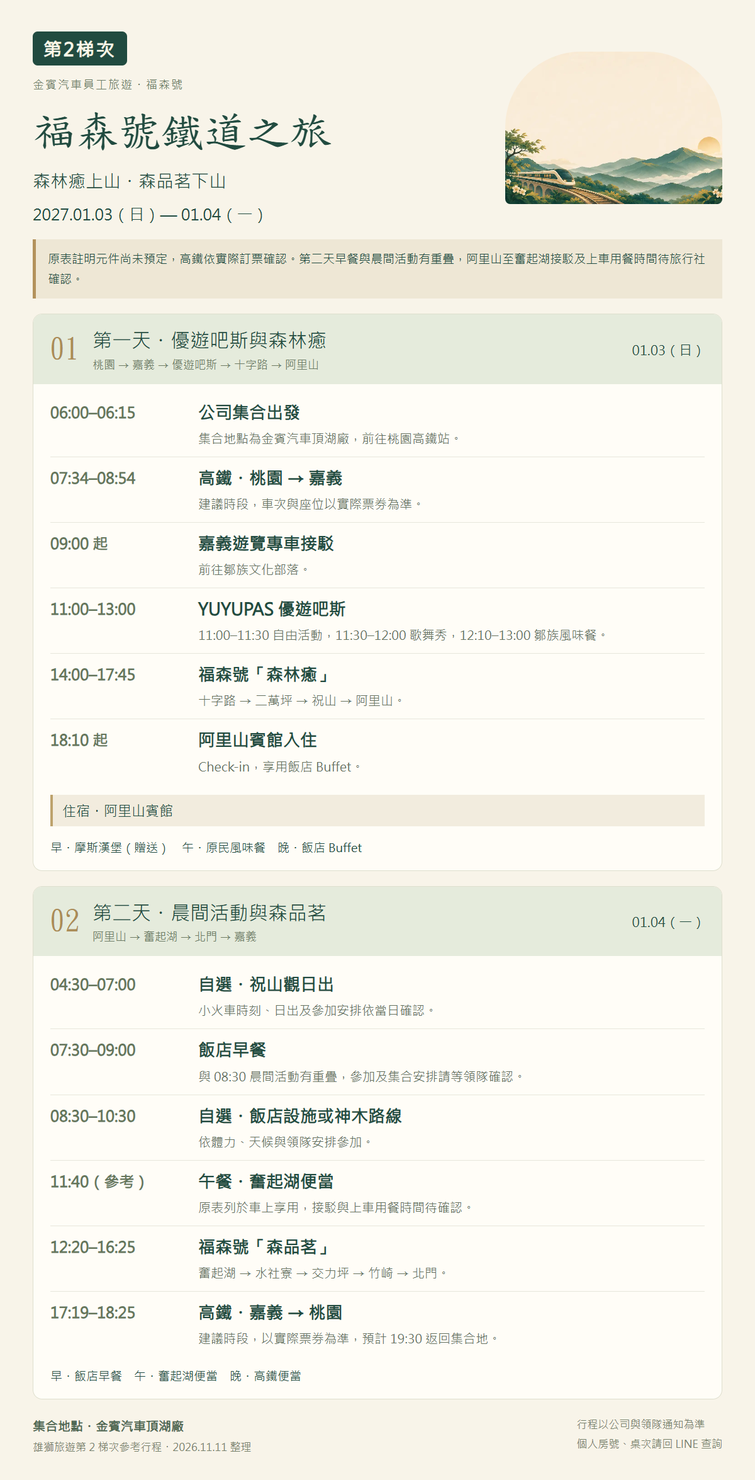
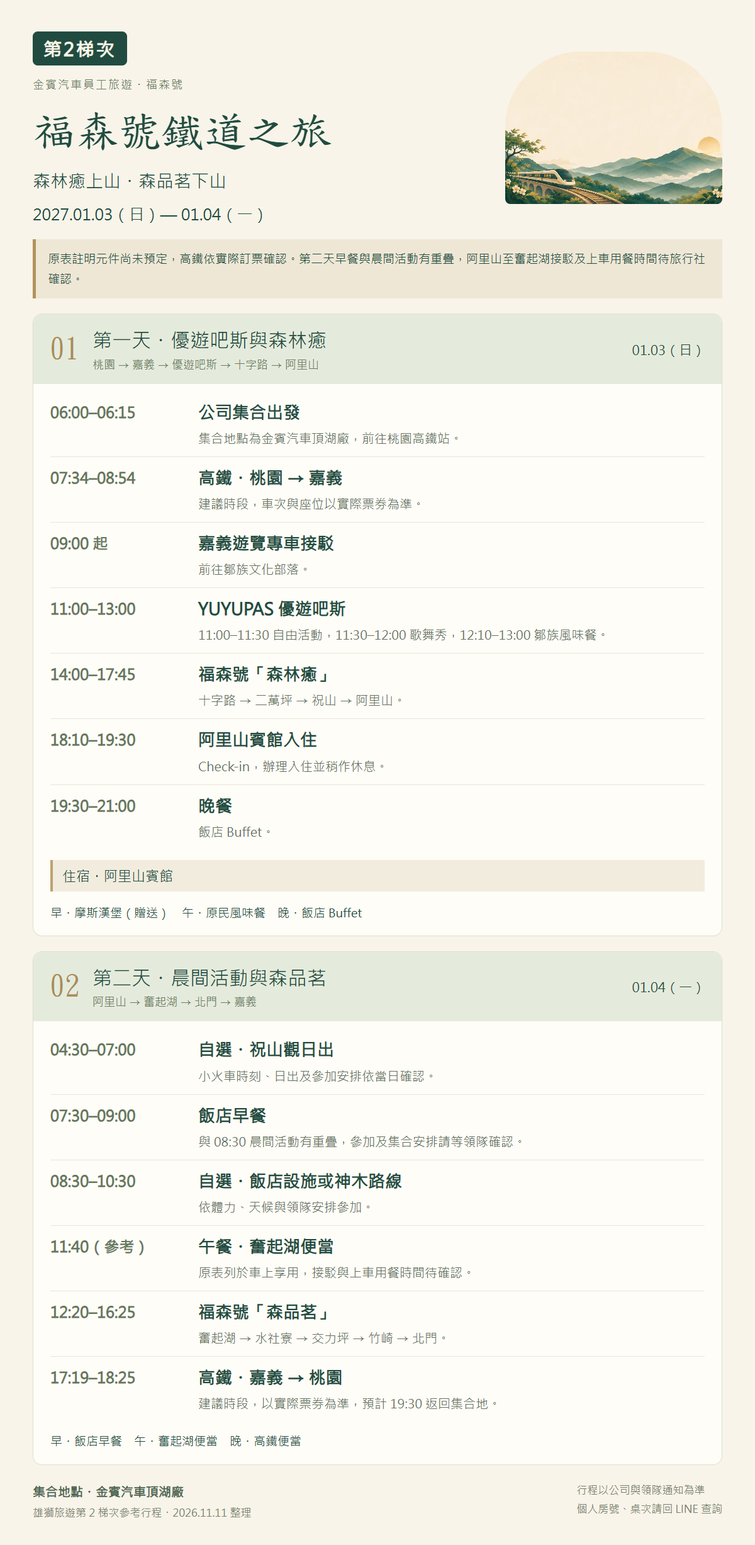
Update Alishan hotel check-in and dinner times for both batches

Changed region(s): [[0.0308, 0.0, 0.9558, 0.994], [0.7708, 0.963, 0.9558, 0.994], [0.3083, 0.963, 0.3392, 0.994]]

diff --git a/docs/r01/ac/itinerary.html b/docs/r01/ac/itinerary.html
@@ -1,4 +1,4 @@
 <!doctype html><html lang="zh-Hant"><head><meta charset="utf-8"><meta name="viewport" content="width=1200"><title>福森號・第1梯次・行程圖</title><style>
     @font-face{font-family:PosterSans;src:local('Microsoft JhengHei')}@font-face{font-family:PosterSerif;src:local('DFKai-SB')}
     *{box-sizing:border-box}body{margin:0;width:1200px;background:#f8f4e9;color:#214b40;font-family:PosterSans,'Microsoft JhengHei',sans-serif}.poster{padding:50px 52px 36px}.hero{display:grid;grid-template-columns:1fr 345px;gap:25px;align-items:center;margin-bottom:24px}.eyebrow{font-size:18px;letter-spacing:2px;color:#6d7b65}.hero h1{font:68px/1.35 PosterSerif,serif;margin:12px 0}.sub{font-size:28px;margin:0 0 18px}.date{font-size:25px;margin:0}.hero img{width:345px;height:242px;object-fit:cover;object-position:left bottom;border-radius:120px 120px 8px 8px}.code{display:inline-block;background:#214b40;color:#fff9e9;border-radius:8px;font:700 29px PosterSans,sans-serif;padding:8px 17px;letter-spacing:3px}.notice{font-size:19px;line-height:1.7;background:#eee7d5;border-left:5px solid #b3925c;padding:15px 19px;margin-bottom:24px}.day{background:#fffdf7;border:1px solid #dedfce;border-radius:15px;overflow:hidden;margin-bottom:24px}.day-head{background:#e5ebdc;display:flex;align-items:center;gap:20px;padding:19px 26px}.day-index{font:48px/1 PosterSerif,serif;color:#ab8c56}.day-head h2{font:31px/1.4 PosterSans,sans-serif;margin:0 0 5px}.day-head p{font-size:18px;margin:0;color:#6d7b65}.day-label{margin-left:auto;white-space:nowrap;font-size:21px}.events{padding:12px 27px}.event{display:grid;grid-template-columns:215px 1fr;gap:20px;border-bottom:1px solid #e7e7dc;padding:13px 0}.event:last-child{border:0}.time{font-size:24px;font-weight:700;color:#65765b;padding-top:3px}.event h3{font-size:27px;line-height:1.45;margin:0 0 5px}.event p{font-size:20px;line-height:1.65;color:#65715f;margin:0}.meals{font-size:19px;line-height:1.7;margin:0;padding:3px 27px 20px}.stay{font-size:22px;background:#f2ecde;border-left:4px solid #bda26c;margin:4px 27px 15px;padding:10px 15px}.foot{font-size:17px;line-height:1.8;color:#77816b;display:flex;justify-content:space-between;gap:25px}.foot strong{font-size:20px;color:#4b654f}.pending .event{padding:26px 0}.pending .day{margin-bottom:28px}.pending .notice{font-size:22px}
-    </style></head><body class=""><main id="poster" class="poster"><header class="hero"><div><span class="code">第1梯次</span><p class="eyebrow">金賓汽車員工旅遊・福森號</p><h1>福森號鐵道之旅</h1><p class="sub">森好食上山・好森音下山</p><p class="date">2027.01.03（日）— 01.04（一）</p></div><img src="../../assets/r01-cover.webp" alt="阿里山森林旅行插畫"></header><div class="notice">原表註明元件尚未預定，高鐵依實際訂票確認。第二天早餐截止時間與 08:35 列車出發時間重疊，早餐及集合時間請等領隊確認。</div><section class="day"><header class="day-head"><span class="day-index">01</span><div><h2>第一天・森好食與森林漫步</h2><p>桃園 → 嘉義北門 → 十字路 → 阿里山</p></div><span class="day-label">01.03（日）</span></header><div class="events"><div class="event"><div class="time">05:15–05:30</div><div><h3>公司集合出發</h3><p>集合地點為金賓汽車頂湖廠，前往桃園高鐵站。</p></div></div><div class="event"><div class="time">06:49–08:09</div><div><h3>高鐵・桃園 → 嘉義</h3><p>建議時段，車次與座位以實際票券為準。</p></div></div><div class="event"><div class="time">08:15 起</div><div><h3>嘉義接駁至北門車站</h3><p>搭乘旅行社安排的遊覽專車。</p></div></div><div class="event"><div class="time">09:10–13:20</div><div><h3>福森號「森好食」</h3><p>北門 → 樟腦寮 → 第三觀景台 → 奮起湖 → 多林緩行 → 十字路。</p></div></div><div class="event"><div class="time">13:40–14:15</div><div><h3>前往阿里山森林遊樂區</h3><p>十字路接駁上山。</p></div></div><div class="event"><div class="time">14:30–16:00</div><div><h3>森林漫步・姊妹潭路線</h3><p>依領隊安排走訪園區林道與景點。</p></div></div><div class="event"><div class="time">16:30 起</div><div><h3>阿里山賓館入住</h3><p>Check-in，享用飯店 Buffet。</p></div></div></div><p class="stay">住宿・阿里山賓館</p><p class="meals">早・摩斯漢堡（贈送）　午・福森號餐盒　晚・飯店 Buffet</p></section><section class="day"><header class="day-head"><span class="day-index">02</span><div><h2>第二天・好森音與優遊吧斯</h2><p>阿里山 → 奮起湖 → 優遊吧斯 → 嘉義</p></div><span class="day-label">01.04（一）</span></header><div class="events"><div class="event"><div class="time">04:30–07:00</div><div><h3>自選・祝山觀日出</h3><p>小火車時刻、日出及參加安排依當日確認。</p></div></div><div class="event"><div class="time">早餐時間待確認</div><div><h3>飯店早餐與退房集合</h3><p>原表早餐列至 09:00，但列車 08:35 出發，請等領隊確認早餐及集合時間。</p></div></div><div class="event"><div class="time">08:35–11:30</div><div><h3>福森號「好森音」</h3><p>阿里山 → 二萬坪 → 多林緩行 → 奮起湖。</p></div></div><div class="event"><div class="time">12:15–15:00</div><div><h3>YUYUPAS 優遊吧斯</h3><p>12:30–13:30 鄒族風味餐，14:00–14:40 歌舞秀，14:40–15:00 自由活動。</p></div></div><div class="event"><div class="time">17:19–18:25</div><div><h3>高鐵・嘉義 → 桃園</h3><p>建議時段，以實際票券為準，預計 19:30 返回集合地。</p></div></div></div><p class="meals">早・飯店早餐　午・原民風味餐　晚・高鐵便當</p></section><footer class="foot"><div><strong>集合地點・金賓汽車頂湖廠</strong><br>雄獅旅遊第 1 梯次參考行程・2026.11.11 整理</div><div>行程以公司與領隊通知為準<br>個人房號、桌次請回 LINE 查詢</div></footer></main></body></html>
+    </style></head><body class=""><main id="poster" class="poster"><header class="hero"><div><span class="code">第1梯次</span><p class="eyebrow">金賓汽車員工旅遊・福森號</p><h1>福森號鐵道之旅</h1><p class="sub">森好食上山・好森音下山</p><p class="date">2027.01.03（日）— 01.04（一）</p></div><img src="../../assets/r01-cover.webp" alt="阿里山森林旅行插畫"></header><div class="notice">原表註明元件尚未預定，高鐵依實際訂票確認。第二天早餐截止時間與 08:35 列車出發時間重疊，早餐及集合時間請等領隊確認。</div><section class="day"><header class="day-head"><span class="day-index">01</span><div><h2>第一天・森好食與森林漫步</h2><p>桃園 → 嘉義北門 → 十字路 → 阿里山</p></div><span class="day-label">01.03（日）</span></header><div class="events"><div class="event"><div class="time">05:15–05:30</div><div><h3>公司集合出發</h3><p>集合地點為金賓汽車頂湖廠，前往桃園高鐵站。</p></div></div><div class="event"><div class="time">06:49–08:09</div><div><h3>高鐵・桃園 → 嘉義</h3><p>建議時段，車次與座位以實際票券為準。</p></div></div><div class="event"><div class="time">08:15 起</div><div><h3>嘉義接駁至北門車站</h3><p>搭乘旅行社安排的遊覽專車。</p></div></div><div class="event"><div class="time">09:10–13:20</div><div><h3>福森號「森好食」</h3><p>北門 → 樟腦寮 → 第三觀景台 → 奮起湖 → 多林緩行 → 十字路。</p></div></div><div class="event"><div class="time">13:40–14:15</div><div><h3>前往阿里山森林遊樂區</h3><p>十字路接駁上山。</p></div></div><div class="event"><div class="time">14:30–16:00</div><div><h3>森林漫步・姊妹潭路線</h3><p>依領隊安排走訪園區林道與景點。</p></div></div><div class="event"><div class="time">16:30–17:30</div><div><h3>阿里山賓館入住</h3><p>Check-in，辦理入住並稍作休息。</p></div></div><div class="event"><div class="time">17:30–19:00</div><div><h3>晚餐</h3><p>飯店 Buffet。</p></div></div></div><p class="stay">住宿・阿里山賓館</p><p class="meals">早・摩斯漢堡（贈送）　午・福森號餐盒　晚・飯店 Buffet</p></section><section class="day"><header class="day-head"><span class="day-index">02</span><div><h2>第二天・好森音與優遊吧斯</h2><p>阿里山 → 奮起湖 → 優遊吧斯 → 嘉義</p></div><span class="day-label">01.04（一）</span></header><div class="events"><div class="event"><div class="time">04:30–07:00</div><div><h3>自選・祝山觀日出</h3><p>小火車時刻、日出及參加安排依當日確認。</p></div></div><div class="event"><div class="time">早餐時間待確認</div><div><h3>飯店早餐與退房集合</h3><p>原表早餐列至 09:00，但列車 08:35 出發，請等領隊確認早餐及集合時間。</p></div></div><div class="event"><div class="time">08:35–11:30</div><div><h3>福森號「好森音」</h3><p>阿里山 → 二萬坪 → 多林緩行 → 奮起湖。</p></div></div><div class="event"><div class="time">12:15–15:00</div><div><h3>YUYUPAS 優遊吧斯</h3><p>12:30–13:30 鄒族風味餐，14:00–14:40 歌舞秀，14:40–15:00 自由活動。</p></div></div><div class="event"><div class="time">17:19–18:25</div><div><h3>高鐵・嘉義 → 桃園</h3><p>建議時段，以實際票券為準，預計 19:30 返回集合地。</p></div></div></div><p class="meals">早・飯店早餐　午・原民風味餐　晚・高鐵便當</p></section><footer class="foot"><div><strong>集合地點・金賓汽車頂湖廠</strong><br>雄獅旅遊第 1 梯次參考行程・2026.11.11 整理</div><div>行程以公司與領隊通知為準<br>個人房號、桌次請回 LINE 查詢</div></footer></main></body></html>

diff --git a/docs/r01/bd/itinerary.html b/docs/r01/bd/itinerary.html
@@ -1,4 +1,4 @@
 <!doctype html><html lang="zh-Hant"><head><meta charset="utf-8"><meta name="viewport" content="width=1200"><title>福森號・第2梯次・行程圖</title><style>
     @font-face{font-family:PosterSans;src:local('Microsoft JhengHei')}@font-face{font-family:PosterSerif;src:local('DFKai-SB')}
     *{box-sizing:border-box}body{margin:0;width:1200px;background:#f8f4e9;color:#214b40;font-family:PosterSans,'Microsoft JhengHei',sans-serif}.poster{padding:50px 52px 36px}.hero{display:grid;grid-template-columns:1fr 345px;gap:25px;align-items:center;margin-bottom:24px}.eyebrow{font-size:18px;letter-spacing:2px;color:#6d7b65}.hero h1{font:68px/1.35 PosterSerif,serif;margin:12px 0}.sub{font-size:28px;margin:0 0 18px}.date{font-size:25px;margin:0}.hero img{width:345px;height:242px;object-fit:cover;object-position:left bottom;border-radius:120px 120px 8px 8px}.code{display:inline-block;background:#214b40;color:#fff9e9;border-radius:8px;font:700 29px PosterSans,sans-serif;padding:8px 17px;letter-spacing:3px}.notice{font-size:19px;line-height:1.7;background:#eee7d5;border-left:5px solid #b3925c;padding:15px 19px;margin-bottom:24px}.day{background:#fffdf7;border:1px solid #dedfce;border-radius:15px;overflow:hidden;margin-bottom:24px}.day-head{background:#e5ebdc;display:flex;align-items:center;gap:20px;padding:19px 26px}.day-index{font:48px/1 PosterSerif,serif;color:#ab8c56}.day-head h2{font:31px/1.4 PosterSans,sans-serif;margin:0 0 5px}.day-head p{font-size:18px;margin:0;color:#6d7b65}.day-label{margin-left:auto;white-space:nowrap;font-size:21px}.events{padding:12px 27px}.event{display:grid;grid-template-columns:215px 1fr;gap:20px;border-bottom:1px solid #e7e7dc;padding:13px 0}.event:last-child{border:0}.time{font-size:24px;font-weight:700;color:#65765b;padding-top:3px}.event h3{font-size:27px;line-height:1.45;margin:0 0 5px}.event p{font-size:20px;line-height:1.65;color:#65715f;margin:0}.meals{font-size:19px;line-height:1.7;margin:0;padding:3px 27px 20px}.stay{font-size:22px;background:#f2ecde;border-left:4px solid #bda26c;margin:4px 27px 15px;padding:10px 15px}.foot{font-size:17px;line-height:1.8;color:#77816b;display:flex;justify-content:space-between;gap:25px}.foot strong{font-size:20px;color:#4b654f}.pending .event{padding:26px 0}.pending .day{margin-bottom:28px}.pending .notice{font-size:22px}
-    </style></head><body class=""><main id="poster" class="poster"><header class="hero"><div><span class="code">第2梯次</span><p class="eyebrow">金賓汽車員工旅遊・福森號</p><h1>福森號鐵道之旅</h1><p class="sub">森林癒上山・森品茗下山</p><p class="date">2027.01.03（日）— 01.04（一）</p></div><img src="../../assets/r01-cover.webp" alt="阿里山森林旅行插畫"></header><div class="notice">原表註明元件尚未預定，高鐵依實際訂票確認。第二天早餐與晨間活動有重疊，阿里山至奮起湖接駁及上車用餐時間待旅行社確認。</div><section class="day"><header class="day-head"><span class="day-index">01</span><div><h2>第一天・優遊吧斯與森林癒</h2><p>桃園 → 嘉義 → 優遊吧斯 → 十字路 → 阿里山</p></div><span class="day-label">01.03（日）</span></header><div class="events"><div class="event"><div class="time">06:00–06:15</div><div><h3>公司集合出發</h3><p>集合地點為金賓汽車頂湖廠，前往桃園高鐵站。</p></div></div><div class="event"><div class="time">07:34–08:54</div><div><h3>高鐵・桃園 → 嘉義</h3><p>建議時段，車次與座位以實際票券為準。</p></div></div><div class="event"><div class="time">09:00 起</div><div><h3>嘉義遊覽專車接駁</h3><p>前往鄒族文化部落。</p></div></div><div class="event"><div class="time">11:00–13:00</div><div><h3>YUYUPAS 優遊吧斯</h3><p>11:00–11:30 自由活動，11:30–12:00 歌舞秀，12:10–13:00 鄒族風味餐。</p></div></div><div class="event"><div class="time">14:00–17:45</div><div><h3>福森號「森林癒」</h3><p>十字路 → 二萬坪 → 祝山 → 阿里山。</p></div></div><div class="event"><div class="time">18:10 起</div><div><h3>阿里山賓館入住</h3><p>Check-in，享用飯店 Buffet。</p></div></div></div><p class="stay">住宿・阿里山賓館</p><p class="meals">早・摩斯漢堡（贈送）　午・原民風味餐　晚・飯店 Buffet</p></section><section class="day"><header class="day-head"><span class="day-index">02</span><div><h2>第二天・晨間活動與森品茗</h2><p>阿里山 → 奮起湖 → 北門 → 嘉義</p></div><span class="day-label">01.04（一）</span></header><div class="events"><div class="event"><div class="time">04:30–07:00</div><div><h3>自選・祝山觀日出</h3><p>小火車時刻、日出及參加安排依當日確認。</p></div></div><div class="event"><div class="time">07:30–09:00</div><div><h3>飯店早餐</h3><p>與 08:30 晨間活動有重疊，參加及集合安排請等領隊確認。</p></div></div><div class="event"><div class="time">08:30–10:30</div><div><h3>自選・飯店設施或神木路線</h3><p>依體力、天候與領隊安排參加。</p></div></div><div class="event"><div class="time">11:40（參考）</div><div><h3>午餐・奮起湖便當</h3><p>原表列於車上享用，接駁與上車用餐時間待確認。</p></div></div><div class="event"><div class="time">12:20–16:25</div><div><h3>福森號「森品茗」</h3><p>奮起湖 → 水社寮 → 交力坪 → 竹崎 → 北門。</p></div></div><div class="event"><div class="time">17:19–18:25</div><div><h3>高鐵・嘉義 → 桃園</h3><p>建議時段，以實際票券為準，預計 19:30 返回集合地。</p></div></div></div><p class="meals">早・飯店早餐　午・奮起湖便當　晚・高鐵便當</p></section><footer class="foot"><div><strong>集合地點・金賓汽車頂湖廠</strong><br>雄獅旅遊第 2 梯次參考行程・2026.11.11 整理</div><div>行程以公司與領隊通知為準<br>個人房號、桌次請回 LINE 查詢</div></footer></main></body></html>
+    </style></head><body class=""><main id="poster" class="poster"><header class="hero"><div><span class="code">第2梯次</span><p class="eyebrow">金賓汽車員工旅遊・福森號</p><h1>福森號鐵道之旅</h1><p class="sub">森林癒上山・森品茗下山</p><p class="date">2027.01.03（日）— 01.04（一）</p></div><img src="../../assets/r01-cover.webp" alt="阿里山森林旅行插畫"></header><div class="notice">原表註明元件尚未預定，高鐵依實際訂票確認。第二天早餐與晨間活動有重疊，阿里山至奮起湖接駁及上車用餐時間待旅行社確認。</div><section class="day"><header class="day-head"><span class="day-index">01</span><div><h2>第一天・優遊吧斯與森林癒</h2><p>桃園 → 嘉義 → 優遊吧斯 → 十字路 → 阿里山</p></div><span class="day-label">01.03（日）</span></header><div class="events"><div class="event"><div class="time">06:00–06:15</div><div><h3>公司集合出發</h3><p>集合地點為金賓汽車頂湖廠，前往桃園高鐵站。</p></div></div><div class="event"><div class="time">07:34–08:54</div><div><h3>高鐵・桃園 → 嘉義</h3><p>建議時段，車次與座位以實際票券為準。</p></div></div><div class="event"><div class="time">09:00 起</div><div><h3>嘉義遊覽專車接駁</h3><p>前往鄒族文化部落。</p></div></div><div class="event"><div class="time">11:00–13:00</div><div><h3>YUYUPAS 優遊吧斯</h3><p>11:00–11:30 自由活動，11:30–12:00 歌舞秀，12:10–13:00 鄒族風味餐。</p></div></div><div class="event"><div class="time">14:00–17:45</div><div><h3>福森號「森林癒」</h3><p>十字路 → 二萬坪 → 祝山 → 阿里山。</p></div></div><div class="event"><div class="time">18:10–19:30</div><div><h3>阿里山賓館入住</h3><p>Check-in，辦理入住並稍作休息。</p></div></div><div class="event"><div class="time">19:30–21:00</div><div><h3>晚餐</h3><p>飯店 Buffet。</p></div></div></div><p class="stay">住宿・阿里山賓館</p><p class="meals">早・摩斯漢堡（贈送）　午・原民風味餐　晚・飯店 Buffet</p></section><section class="day"><header class="day-head"><span class="day-index">02</span><div><h2>第二天・晨間活動與森品茗</h2><p>阿里山 → 奮起湖 → 北門 → 嘉義</p></div><span class="day-label">01.04（一）</span></header><div class="events"><div class="event"><div class="time">04:30–07:00</div><div><h3>自選・祝山觀日出</h3><p>小火車時刻、日出及參加安排依當日確認。</p></div></div><div class="event"><div class="time">07:30–09:00</div><div><h3>飯店早餐</h3><p>與 08:30 晨間活動有重疊，參加及集合安排請等領隊確認。</p></div></div><div class="event"><div class="time">08:30–10:30</div><div><h3>自選・飯店設施或神木路線</h3><p>依體力、天候與領隊安排參加。</p></div></div><div class="event"><div class="time">11:40（參考）</div><div><h3>午餐・奮起湖便當</h3><p>原表列於車上享用，接駁與上車用餐時間待確認。</p></div></div><div class="event"><div class="time">12:20–16:25</div><div><h3>福森號「森品茗」</h3><p>奮起湖 → 水社寮 → 交力坪 → 竹崎 → 北門。</p></div></div><div class="event"><div class="time">17:19–18:25</div><div><h3>高鐵・嘉義 → 桃園</h3><p>建議時段，以實際票券為準，預計 19:30 返回集合地。</p></div></div></div><p class="meals">早・飯店早餐　午・奮起湖便當　晚・高鐵便當</p></section><footer class="foot"><div><strong>集合地點・金賓汽車頂湖廠</strong><br>雄獅旅遊第 2 梯次參考行程・2026.11.11 整理</div><div>行程以公司與領隊通知為準<br>個人房號、桌次請回 LINE 查詢</div></footer></main></body></html>

diff --git a/docs/r01/ac/index.html b/docs/r01/ac/index.html
@@ -5,7 +5,7 @@
     <section class="sound-panel" aria-label="旅程聲音"><span class="sound-mark" aria-hidden="true">♪</span><div class="sound-copy"><p class="eyebrow">背景音效</p><h2>火車鳴笛・鐵道行駛聲</h2><p>開啟時鳴笛，之後每 2 分 30 秒鳴笛一次。</p><span id="sound-status" role="status">點一下開啟聲音，也可以安靜閱讀。</span></div><div class="sound-controls"><button id="sound-toggle" class="button" aria-pressed="false">開啟旅程聲音</button><label>音量 <input id="volume" type="range" min="0" max="100" value="25" aria-label="旅程聲音音量"></label></div></section>
     <section id="itinerary" class="section"><div class="section-heading"><div><p class="eyebrow">依第 1 梯次參考行程整理</p><h2>第1梯次・每日行程</h2></div><a class="text-link" href="../../assets/r01-ac-itinerary.png" target="_blank" rel="noopener">開啟行程圖片 ↗</a></div><p class="trip-notice">原表註明元件尚未預定，高鐵依實際訂票確認。第二天早餐截止時間與 08:35 列車出發時間重疊，早餐及集合時間請等領隊確認。</p><div class="fusen-days"><article class="fusen-day">
     <header><span class="day-index">01</span><div><p class="eyebrow">01.03（日）</p><h3>第一天・森好食與森林漫步</h3><p>桃園 → 嘉義北門 → 十字路 → 阿里山</p></div></header>
-    <ol class="fusen-events"><li><time>05:15–05:30</time><div><h4>公司集合出發</h4><p>集合地點為金賓汽車頂湖廠，前往桃園高鐵站。</p></div></li><li><time>06:49–08:09</time><div><h4>高鐵・桃園 → 嘉義</h4><p>建議時段，車次與座位以實際票券為準。</p></div></li><li><time>08:15 起</time><div><h4>嘉義接駁至北門車站</h4><p>搭乘旅行社安排的遊覽專車。</p></div></li><li><time>09:10–13:20</time><div><h4>福森號「森好食」</h4><p>北門 → 樟腦寮 → 第三觀景台 → 奮起湖 → 多林緩行 → 十字路。</p></div></li><li><time>13:40–14:15</time><div><h4>前往阿里山森林遊樂區</h4><p>十字路接駁上山。</p></div></li><li><time>14:30–16:00</time><div><h4>森林漫步・姊妹潭路線</h4><p>依領隊安排走訪園區林道與景點。</p></div></li><li><time>16:30 起</time><div><h4>阿里山賓館入住</h4><p>Check-in，享用飯店 Buffet。</p></div></li></ol>
+    <ol class="fusen-events"><li><time>05:15–05:30</time><div><h4>公司集合出發</h4><p>集合地點為金賓汽車頂湖廠，前往桃園高鐵站。</p></div></li><li><time>06:49–08:09</time><div><h4>高鐵・桃園 → 嘉義</h4><p>建議時段，車次與座位以實際票券為準。</p></div></li><li><time>08:15 起</time><div><h4>嘉義接駁至北門車站</h4><p>搭乘旅行社安排的遊覽專車。</p></div></li><li><time>09:10–13:20</time><div><h4>福森號「森好食」</h4><p>北門 → 樟腦寮 → 第三觀景台 → 奮起湖 → 多林緩行 → 十字路。</p></div></li><li><time>13:40–14:15</time><div><h4>前往阿里山森林遊樂區</h4><p>十字路接駁上山。</p></div></li><li><time>14:30–16:00</time><div><h4>森林漫步・姊妹潭路線</h4><p>依領隊安排走訪園區林道與景點。</p></div></li><li><time>16:30–17:30</time><div><h4>阿里山賓館入住</h4><p>Check-in，辦理入住並稍作休息。</p></div></li><li><time>17:30–19:00</time><div><h4>晚餐</h4><p>飯店 Buffet。</p></div></li></ol>
     <p class="fusen-stay">住宿・阿里山賓館</p><p class="fusen-meals">早・摩斯漢堡（贈送）　午・福森號餐盒　晚・飯店 Buffet</p>
   </article><article class="fusen-day">
     <header><span class="day-index">02</span><div><p class="eyebrow">01.04（一）</p><h3>第二天・好森音與優遊吧斯</h3><p>阿里山 → 奮起湖 → 優遊吧斯 → 嘉義</p></div></header>
@@ -21,7 +21,7 @@
     <article class="story"><span class="number">05</span><div><h3>祝山與山上活動</h3><p>參考行程有 04:30–07:00 祝山觀日出自選活動。想看日出請準備保暖衣物，天候與小火車時刻以當日公告為準。</p><a class="text-link" href="https://recreation.forest.gov.tw/forest/ra?typ_id=0500001" target="_blank" rel="noopener noreferrer">阿里山森林遊樂區官方資訊 ↗</a></div></article>
     </div></section>
     <section id="meet" class="meet fusen-meet"><div><p class="eyebrow">集合資訊</p><h2>金賓汽車頂湖廠</h2></div><div><p>第1梯次參考公司集合時間為 05:15–05:30。</p><a class="button light" href="https://share.google/D0maFrCaCc2iNcHVA" target="_blank" rel="noopener noreferrer">開啟集合地圖 ↗</a><p class="fineprint">車輛與最新集合通知請查看 LINE。高鐵車次、車廂與座位以實際票券為準。</p></div></section>
-    <section id="stay" class="section stay"><div class="section-heading"><div><p class="eyebrow">住宿介紹</p><h2>阿里山賓館</h2></div><p>個人房號請回 LINE 查詢</p></div><article class="hotel"><p>第一晚入住阿里山賓館。第1梯次參考入住時間為 16:30 起。 餐食、房型與設施使用依團體安排及飯店公告。</p><a class="text-link" href="https://www.alishanhotel.com.tw/" target="_blank" rel="noopener noreferrer">查看飯店官網 ↗</a></article></section>
+    <section id="stay" class="section stay"><div class="section-heading"><div><p class="eyebrow">住宿介紹</p><h2>阿里山賓館</h2></div><p>個人房號請回 LINE 查詢</p></div><article class="hotel"><p>第一晚入住阿里山賓館。第1梯次入住時間為 16:30–17:30，晚餐 17:30–19:00 享用飯店 Buffet。 餐食、房型與設施使用依團體安排及飯店公告。</p><a class="text-link" href="https://www.alishanhotel.com.tw/" target="_blank" rel="noopener noreferrer">查看飯店官網 ↗</a></article></section>
     <section id="packing" class="section packing"><div><p class="eyebrow">行前準備</p><h2>上山前整理好行李</h2><p>山上與平地體感不同，採可增減的保暖穿著。高鐵、接駁車和福森號會多次轉乘，隨身物品請自行確認。</p><span id="packing-count" class="packing-progress" role="status"></span></div><div class="checklist"><label class="check"><input type="checkbox" data-pack="0"><span>身分證件與乘車資訊</span></label><label class="check"><input type="checkbox" data-pack="1"><span>保暖外套與可增減的衣物</span></label><label class="check"><input type="checkbox" data-pack="2"><span>防滑好走的鞋</span></label><label class="check"><input type="checkbox" data-pack="3"><span>輕便雨具與飲用水</span></label><label class="check"><input type="checkbox" data-pack="4"><span>手機、充電線與行動電源</span></label><label class="check"><input type="checkbox" data-pack="5"><span>牙刷、牙膏等個人備品</span></label><button class="reset" id="packing-reset">重新勾選清單</button><p class="fineprint">勾選紀錄只保留在這台裝置。</p></div></section>
     <section class="section"><p class="eyebrow">福森號梯次對照</p><h2>兩梯次對照</h2><div class="combo-grid">
     <a class="combo-card is-current" href="../ac/" aria-current="page">

diff --git a/docs/r01/bd/index.html b/docs/r01/bd/index.html
@@ -5,7 +5,7 @@
     <section class="sound-panel" aria-label="旅程聲音"><span class="sound-mark" aria-hidden="true">♪</span><div class="sound-copy"><p class="eyebrow">背景音效</p><h2>火車鳴笛・鐵道行駛聲</h2><p>開啟時鳴笛，之後每 2 分 30 秒鳴笛一次。</p><span id="sound-status" role="status">點一下開啟聲音，也可以安靜閱讀。</span></div><div class="sound-controls"><button id="sound-toggle" class="button" aria-pressed="false">開啟旅程聲音</button><label>音量 <input id="volume" type="range" min="0" max="100" value="25" aria-label="旅程聲音音量"></label></div></section>
     <section id="itinerary" class="section"><div class="section-heading"><div><p class="eyebrow">依第 2 梯次參考行程整理</p><h2>第2梯次・每日行程</h2></div><a class="text-link" href="../../assets/r01-bd-itinerary.png" target="_blank" rel="noopener">開啟行程圖片 ↗</a></div><p class="trip-notice">原表註明元件尚未預定，高鐵依實際訂票確認。第二天早餐與晨間活動有重疊，阿里山至奮起湖接駁及上車用餐時間待旅行社確認。</p><div class="fusen-days"><article class="fusen-day">
     <header><span class="day-index">01</span><div><p class="eyebrow">01.03（日）</p><h3>第一天・優遊吧斯與森林癒</h3><p>桃園 → 嘉義 → 優遊吧斯 → 十字路 → 阿里山</p></div></header>
-    <ol class="fusen-events"><li><time>06:00–06:15</time><div><h4>公司集合出發</h4><p>集合地點為金賓汽車頂湖廠，前往桃園高鐵站。</p></div></li><li><time>07:34–08:54</time><div><h4>高鐵・桃園 → 嘉義</h4><p>建議時段，車次與座位以實際票券為準。</p></div></li><li><time>09:00 起</time><div><h4>嘉義遊覽專車接駁</h4><p>前往鄒族文化部落。</p></div></li><li><time>11:00–13:00</time><div><h4>YUYUPAS 優遊吧斯</h4><p>11:00–11:30 自由活動，11:30–12:00 歌舞秀，12:10–13:00 鄒族風味餐。</p></div></li><li><time>14:00–17:45</time><div><h4>福森號「森林癒」</h4><p>十字路 → 二萬坪 → 祝山 → 阿里山。</p></div></li><li><time>18:10 起</time><div><h4>阿里山賓館入住</h4><p>Check-in，享用飯店 Buffet。</p></div></li></ol>
+    <ol class="fusen-events"><li><time>06:00–06:15</time><div><h4>公司集合出發</h4><p>集合地點為金賓汽車頂湖廠，前往桃園高鐵站。</p></div></li><li><time>07:34–08:54</time><div><h4>高鐵・桃園 → 嘉義</h4><p>建議時段，車次與座位以實際票券為準。</p></div></li><li><time>09:00 起</time><div><h4>嘉義遊覽專車接駁</h4><p>前往鄒族文化部落。</p></div></li><li><time>11:00–13:00</time><div><h4>YUYUPAS 優遊吧斯</h4><p>11:00–11:30 自由活動，11:30–12:00 歌舞秀，12:10–13:00 鄒族風味餐。</p></div></li><li><time>14:00–17:45</time><div><h4>福森號「森林癒」</h4><p>十字路 → 二萬坪 → 祝山 → 阿里山。</p></div></li><li><time>18:10–19:30</time><div><h4>阿里山賓館入住</h4><p>Check-in，辦理入住並稍作休息。</p></div></li><li><time>19:30–21:00</time><div><h4>晚餐</h4><p>飯店 Buffet。</p></div></li></ol>
     <p class="fusen-stay">住宿・阿里山賓館</p><p class="fusen-meals">早・摩斯漢堡（贈送）　午・原民風味餐　晚・飯店 Buffet</p>
   </article><article class="fusen-day">
     <header><span class="day-index">02</span><div><p class="eyebrow">01.04（一）</p><h3>第二天・晨間活動與森品茗</h3><p>阿里山 → 奮起湖 → 北門 → 嘉義</p></div></header>
@@ -21,7 +21,7 @@
     <article class="story"><span class="number">05</span><div><h3>祝山與山上活動</h3><p>參考行程有 04:30–07:00 祝山觀日出自選活動。想看日出請準備保暖衣物，天候與小火車時刻以當日公告為準。</p><a class="text-link" href="https://recreation.forest.gov.tw/forest/ra?typ_id=0500001" target="_blank" rel="noopener noreferrer">阿里山森林遊樂區官方資訊 ↗</a></div></article>
     </div></section>
     <section id="meet" class="meet fusen-meet"><div><p class="eyebrow">集合資訊</p><h2>金賓汽車頂湖廠</h2></div><div><p>第2梯次參考公司集合時間為 06:00–06:15。</p><a class="button light" href="https://share.google/D0maFrCaCc2iNcHVA" target="_blank" rel="noopener noreferrer">開啟集合地圖 ↗</a><p class="fineprint">車輛與最新集合通知請查看 LINE。高鐵車次、車廂與座位以實際票券為準。</p></div></section>
-    <section id="stay" class="section stay"><div class="section-heading"><div><p class="eyebrow">住宿介紹</p><h2>阿里山賓館</h2></div><p>個人房號請回 LINE 查詢</p></div><article class="hotel"><p>第一晚入住阿里山賓館。第2梯次參考入住時間為 18:10 起。 餐食、房型與設施使用依團體安排及飯店公告。</p><a class="text-link" href="https://www.alishanhotel.com.tw/" target="_blank" rel="noopener noreferrer">查看飯店官網 ↗</a></article></section>
+    <section id="stay" class="section stay"><div class="section-heading"><div><p class="eyebrow">住宿介紹</p><h2>阿里山賓館</h2></div><p>個人房號請回 LINE 查詢</p></div><article class="hotel"><p>第一晚入住阿里山賓館。第2梯次入住時間為 18:10–19:30，晚餐 19:30–21:00 享用飯店 Buffet。 餐食、房型與設施使用依團體安排及飯店公告。</p><a class="text-link" href="https://www.alishanhotel.com.tw/" target="_blank" rel="noopener noreferrer">查看飯店官網 ↗</a></article></section>
     <section id="packing" class="section packing"><div><p class="eyebrow">行前準備</p><h2>上山前整理好行李</h2><p>山上與平地體感不同，採可增減的保暖穿著。高鐵、接駁車和福森號會多次轉乘，隨身物品請自行確認。</p><span id="packing-count" class="packing-progress" role="status"></span></div><div class="checklist"><label class="check"><input type="checkbox" data-pack="0"><span>身分證件與乘車資訊</span></label><label class="check"><input type="checkbox" data-pack="1"><span>保暖外套與可增減的衣物</span></label><label class="check"><input type="checkbox" data-pack="2"><span>防滑好走的鞋</span></label><label class="check"><input type="checkbox" data-pack="3"><span>輕便雨具與飲用水</span></label><label class="check"><input type="checkbox" data-pack="4"><span>手機、充電線與行動電源</span></label><label class="check"><input type="checkbox" data-pack="5"><span>牙刷、牙膏等個人備品</span></label><button class="reset" id="packing-reset">重新勾選清單</button><p class="fineprint">勾選紀錄只保留在這台裝置。</p></div></section>
     <section class="section"><p class="eyebrow">福森號梯次對照</p><h2>兩梯次對照</h2><div class="combo-grid">
     <a class="combo-card " href="../ac/" >
